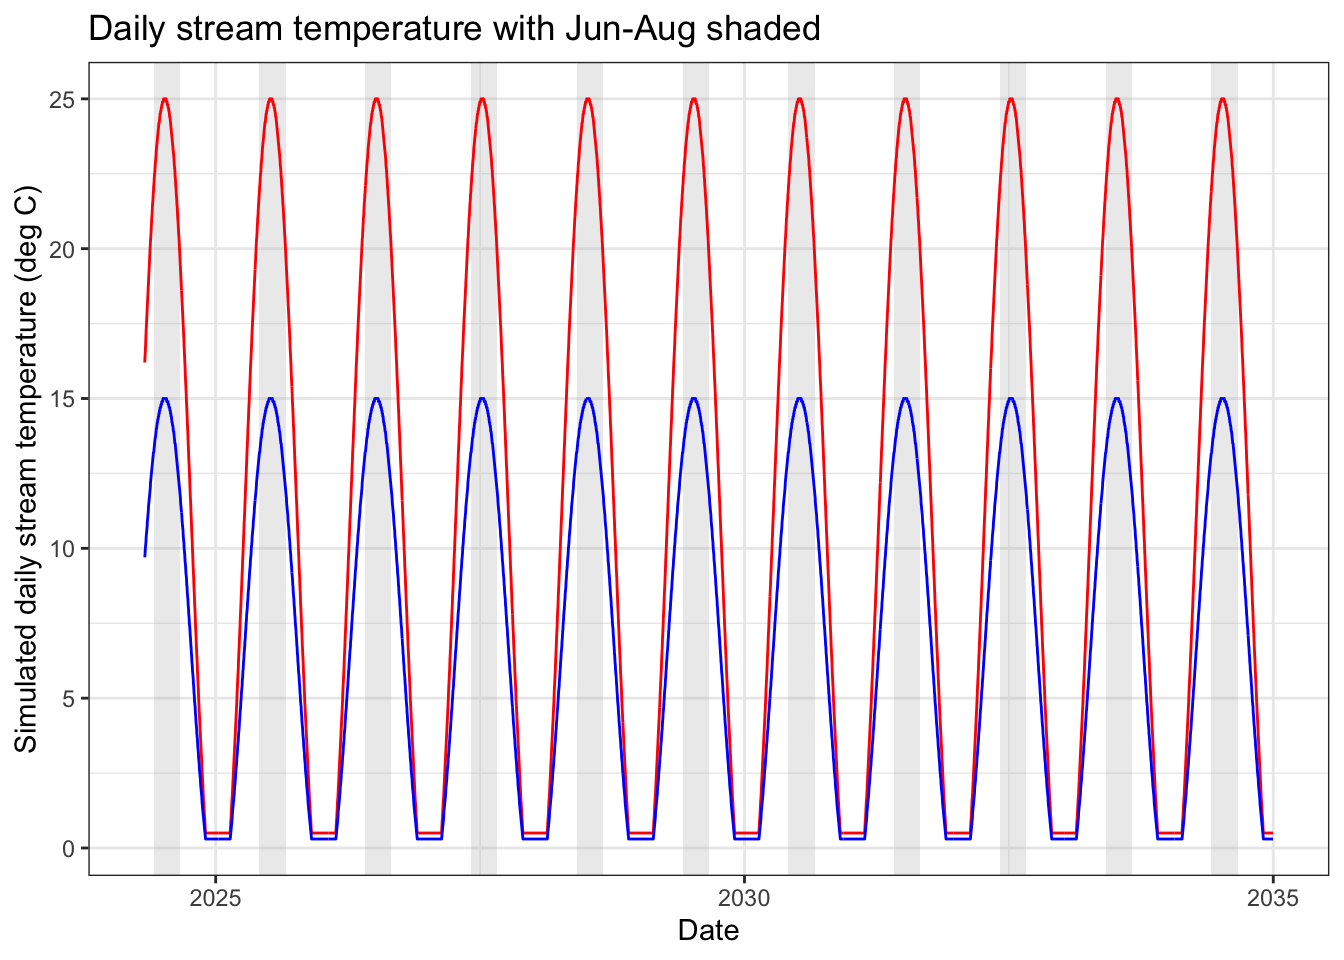
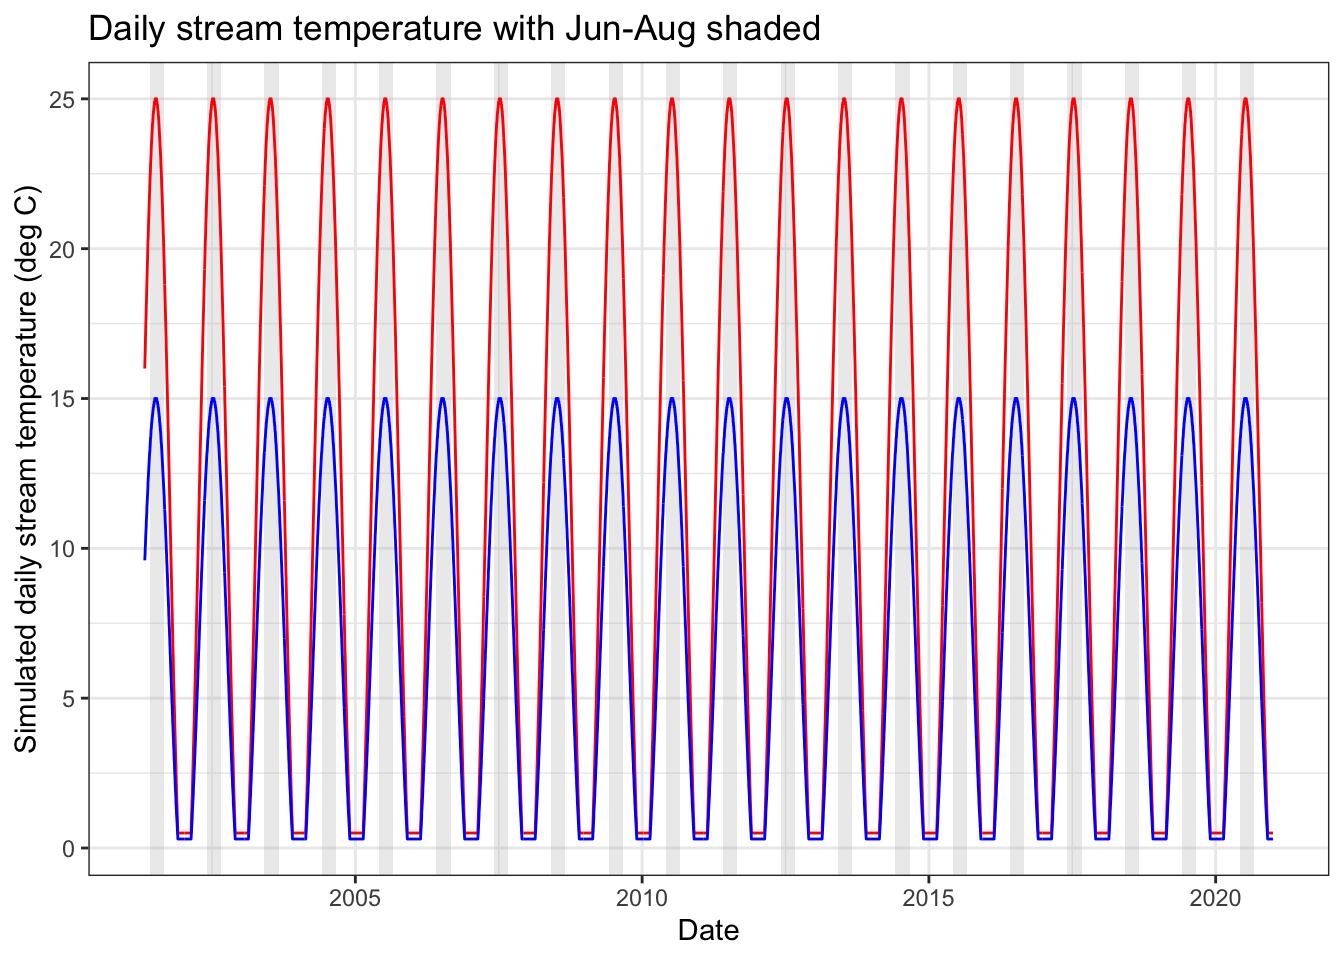
update habitat

diff --git a/docs/Habitat.html b/docs/Habitat.html
@@ -443,7 +443,7 @@ octocat-wave{0%,100%{transform:rotate(0)}20%,60%{transform:rotate(-25deg)}40%,80
 <span id="cb1-2"><a href="#cb1-2" aria-hidden="true" tabindex="-1"></a><span class="fu">set.seed</span>(<span class="dv">123</span>)</span>
 <span id="cb1-3"><a href="#cb1-3" aria-hidden="true" tabindex="-1"></a></span>
 <span id="cb1-4"><a href="#cb1-4" aria-hidden="true" tabindex="-1"></a><span class="co"># 1. Create a date range (1 year)</span></span>
-<span id="cb1-5"><a href="#cb1-5" aria-hidden="true" tabindex="-1"></a>dates <span class="ot">&lt;-</span> <span class="fu">seq</span>(<span class="fu">as.Date</span>(<span class="st">"2024-05-01"</span>), <span class="fu">as.Date</span>(<span class="st">"2034-12-31"</span>), <span class="at">by=</span><span class="st">"day"</span>)</span>
+<span id="cb1-5"><a href="#cb1-5" aria-hidden="true" tabindex="-1"></a>dates <span class="ot">&lt;-</span> <span class="fu">seq</span>(<span class="fu">as.Date</span>(<span class="st">"2001-05-01"</span>), <span class="fu">as.Date</span>(<span class="st">"2020-12-31"</span>), <span class="at">by=</span><span class="st">"day"</span>)</span>
 <span id="cb1-6"><a href="#cb1-6" aria-hidden="true" tabindex="-1"></a>n <span class="ot">&lt;-</span> <span class="fu">length</span>(dates)</span>
 <span id="cb1-7"><a href="#cb1-7" aria-hidden="true" tabindex="-1"></a>doy <span class="ot">&lt;-</span> <span class="fu">as.numeric</span>(<span class="fu">format</span>(dates, <span class="st">"%j"</span>)) <span class="co"># Day of year</span></span>
 <span id="cb1-8"><a href="#cb1-8" aria-hidden="true" tabindex="-1"></a></span>
@@ -628,16 +628,16 @@ octocat-wave{0%,100%{transform:rotate(0)}20%,60%{transform:rotate(-25deg)}40%,80
 <div class="code-copy-outer-scaffold"><div class="sourceCode cell-code" id="cb7"><pre class="sourceCode r code-with-copy"><code class="sourceCode r"><span id="cb7-1"><a href="#cb7-1" aria-hidden="true" tabindex="-1"></a><span class="fu">str</span>(habitat_df)</span></code></pre></div><button title="Copy to Clipboard" class="code-copy-button"><i class="bi"></i></button></div>
 </details>
 <div class="cell-output cell-output-stdout">
-<pre><code>tibble [3,897 × 9] (S3: tbl_df/tbl/data.frame)
- $ date       : Date[1:3897], format: "2024-05-01" "2024-05-02" ...
- $ doy        : num [1:3897] 122 123 124 125 126 127 128 129 130 131 ...
- $ dayofsim   : int [1:3897] 1 2 3 4 5 6 7 8 9 10 ...
- $ temp_warm  : num [1:3897] 16.2 16.4 16.6 16.8 17.1 17.3 17.5 17.7 17.9 18.1 ...
- $ temp_cold  : num [1:3897] 9.7 9.8 10 10.1 10.2 10.4 10.5 10.6 10.7 10.9 ...
- $ ration_warm: num [1:3897] 0.1 0.1 0.1 0.1 0.1 0.1 0.1 0.1 0.1 0.1 ...
- $ ration_cold: num [1:3897] 0.1 0.1 0.1 0.1 0.1 0.1 0.1 0.1 0.1 0.1 ...
- $ pcmax_warm : num [1:3897] 0.5 0.5 0.5 0.5 0.5 0.5 0.5 0.5 0.5 0.5 ...
- $ pcmax_cold : num [1:3897] 0.5 0.5 0.5 0.5 0.5 0.5 0.5 0.5 0.5 0.5 ...</code></pre>
+<pre><code>tibble [7,185 × 9] (S3: tbl_df/tbl/data.frame)
+ $ date       : Date[1:7185], format: "2001-05-01" "2001-05-02" ...
+ $ doy        : num [1:7185] 121 122 123 124 125 126 127 128 129 130 ...
+ $ dayofsim   : int [1:7185] 1 2 3 4 5 6 7 8 9 10 ...
+ $ temp_warm  : num [1:7185] 16 16.2 16.4 16.6 16.8 17.1 17.3 17.5 17.7 17.9 ...
+ $ temp_cold  : num [1:7185] 9.6 9.7 9.8 10 10.1 10.2 10.4 10.5 10.6 10.7 ...
+ $ ration_warm: num [1:7185] 0.1 0.1 0.1 0.1 0.1 0.1 0.1 0.1 0.1 0.1 ...
+ $ ration_cold: num [1:7185] 0.1 0.1 0.1 0.1 0.1 0.1 0.1 0.1 0.1 0.1 ...
+ $ pcmax_warm : num [1:7185] 0.5 0.5 0.5 0.5 0.5 0.5 0.5 0.5 0.5 0.5 ...
+ $ pcmax_cold : num [1:7185] 0.5 0.5 0.5 0.5 0.5 0.5 0.5 0.5 0.5 0.5 ...</code></pre>
 </div>
 <details class="code-fold">
 <summary>Code</summary>
@@ -647,12 +647,12 @@ octocat-wave{0%,100%{transform:rotate(0)}20%,60%{transform:rotate(-25deg)}40%,80
 <pre><code># A tibble: 6 × 9
   date         doy dayofsim temp_warm temp_cold ration_warm ration_cold
   &lt;date&gt;     &lt;dbl&gt;    &lt;int&gt;     &lt;dbl&gt;     &lt;dbl&gt;       &lt;dbl&gt;       &lt;dbl&gt;
-1 2024-05-01   122        1      16.2       9.7         0.1         0.1
-2 2024-05-02   123        2      16.4       9.8         0.1         0.1
-3 2024-05-03   124        3      16.6      10           0.1         0.1
-4 2024-05-04   125        4      16.8      10.1         0.1         0.1
-5 2024-05-05   126        5      17.1      10.2         0.1         0.1
-6 2024-05-06   127        6      17.3      10.4         0.1         0.1
+1 2001-05-01   121        1      16         9.6         0.1         0.1
+2 2001-05-02   122        2      16.2       9.7         0.1         0.1
+3 2001-05-03   123        3      16.4       9.8         0.1         0.1
+4 2001-05-04   124        4      16.6      10           0.1         0.1
+5 2001-05-05   125        5      16.8      10.1         0.1         0.1
+6 2001-05-06   126        6      17.1      10.2         0.1         0.1
 # ℹ 2 more variables: pcmax_warm &lt;dbl&gt;, pcmax_cold &lt;dbl&gt;</code></pre>
 </div>
 </div>
@@ -1186,7 +1186,7 @@ octocat-wave{0%,100%{transform:rotate(0)}20%,60%{transform:rotate(-25deg)}40%,80
 <span id="cb12-37"><a href="#cb12-37" aria-hidden="true" tabindex="-1"></a><span class="fu">set.seed</span>(<span class="dv">123</span>)</span>
 <span id="cb12-38"><a href="#cb12-38" aria-hidden="true" tabindex="-1"></a></span>
 <span id="cb12-39"><a href="#cb12-39" aria-hidden="true" tabindex="-1"></a><span class="co"># 1. Create a date range (1 year)</span></span>
-<span id="cb12-40"><a href="#cb12-40" aria-hidden="true" tabindex="-1"></a>dates <span class="ot">&lt;-</span> <span class="fu">seq</span>(<span class="fu">as.Date</span>(<span class="st">"2024-05-01"</span>), <span class="fu">as.Date</span>(<span class="st">"2034-12-31"</span>), <span class="at">by=</span><span class="st">"day"</span>)</span>
+<span id="cb12-40"><a href="#cb12-40" aria-hidden="true" tabindex="-1"></a>dates <span class="ot">&lt;-</span> <span class="fu">seq</span>(<span class="fu">as.Date</span>(<span class="st">"2001-05-01"</span>), <span class="fu">as.Date</span>(<span class="st">"2020-12-31"</span>), <span class="at">by=</span><span class="st">"day"</span>)</span>
 <span id="cb12-41"><a href="#cb12-41" aria-hidden="true" tabindex="-1"></a>n <span class="ot">&lt;-</span> <span class="fu">length</span>(dates)</span>
 <span id="cb12-42"><a href="#cb12-42" aria-hidden="true" tabindex="-1"></a>doy <span class="ot">&lt;-</span> <span class="fu">as.numeric</span>(<span class="fu">format</span>(dates, <span class="st">"%j"</span>)) <span class="co"># Day of year</span></span>
 <span id="cb12-43"><a href="#cb12-43" aria-hidden="true" tabindex="-1"></a></span>
